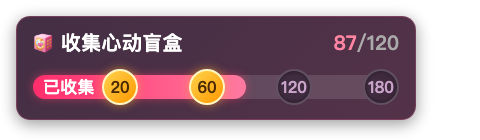
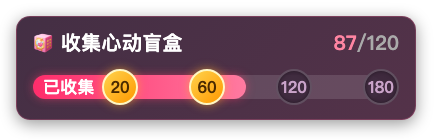
style: 预览图裁掉右侧空白 + 去掉底色边框 + 移动端上下堆叠
- 两张 PNG 按 getbbox 裁到紧贴 card 右边（480→436 宽），去掉 overlay
  页外层 padding 留下的透明区；
- <img> 去掉 #0b0b12 底色和 #2a2a4a 边框，图本身已有 card 背景；
- 两图并排在 mobile 时宽度太窄，改成上下堆叠，gap 12px。caption
  "暴击任务触发时"→"暴击任务收集期" 对齐 cycle 术语。

Changed region(s): [[0.6858, 0.0857, 0.9839, 0.9429], [0.0298, 0.1143, 0.4174, 0.8571], [0.3876, 0.4571, 0.7156, 0.7714]]

diff --git a/frontend/src/components/WeeklyTasksPanel.tsx b/frontend/src/components/WeeklyTasksPanel.tsx
@@ -75,12 +75,12 @@ export function WeeklyTasksPanel({ roomId }: Props) {
           title="浏览器源链接"
           description="本周累计「心动盲盒」数量的进度条件栏，里程碑 20 / 60 / 120 / 180，按 B 站心动盲盒 cycle 自动重置。暴击任务触发时会自动切到暴击任务进度。用 OBS 等直播工具添加「浏览器源」粘贴此链接即可叠加到直播画面。链接带 token 鉴权，和其他 overlay 共用同一个 token，「重新生成」会同时让所有旧链接失效。"
         >
-          <div style={{ display: 'flex', flexWrap: 'wrap', gap: 8 }}>
+          <div style={{ display: 'flex', flexDirection: isMobile ? 'column' : 'row', flexWrap: 'wrap', gap: isMobile ? 12 : 8 }}>
             {[
               { src: previewImg, alt: '心动盲盒 overlay 预览', caption: '心动盲盒收集期' },
-              { src: critPreviewImg, alt: '暴击任务 overlay 预览', caption: '暴击任务触发时' },
+              { src: critPreviewImg, alt: '暴击任务 overlay 预览', caption: '暴击任务收集期' },
             ].map(({ src, alt, caption }) => (
-              <div key={alt} style={{ flex: '1 1 220px', minWidth: 0 }}>
+              <div key={alt} style={{ flex: isMobile ? '0 0 auto' : '1 1 220px', minWidth: 0 }}>
                 <img
                   src={src}
                   alt={alt}
@@ -88,9 +88,8 @@ export function WeeklyTasksPanel({ roomId }: Props) {
                     display: 'block',
                     width: '100%',
                     maxWidth: 460,
+                    margin: '0 auto',
                     borderRadius: 8,
-                    border: '1px solid #2a2a4a',
-                    background: '#0b0b12',
                   }}
                 />
                 <div style={{ fontSize: 11, color: '#888', marginTop: 4, textAlign: 'center' }}>
